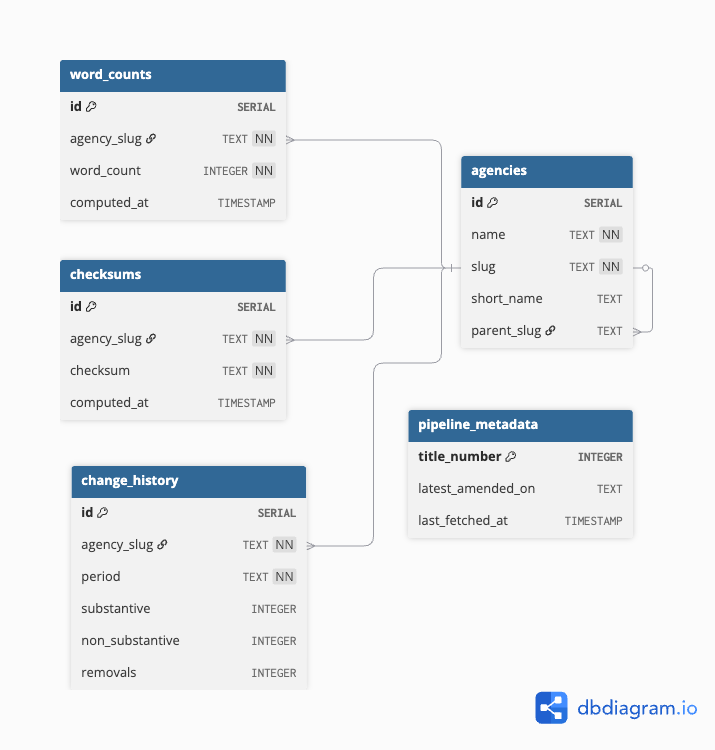
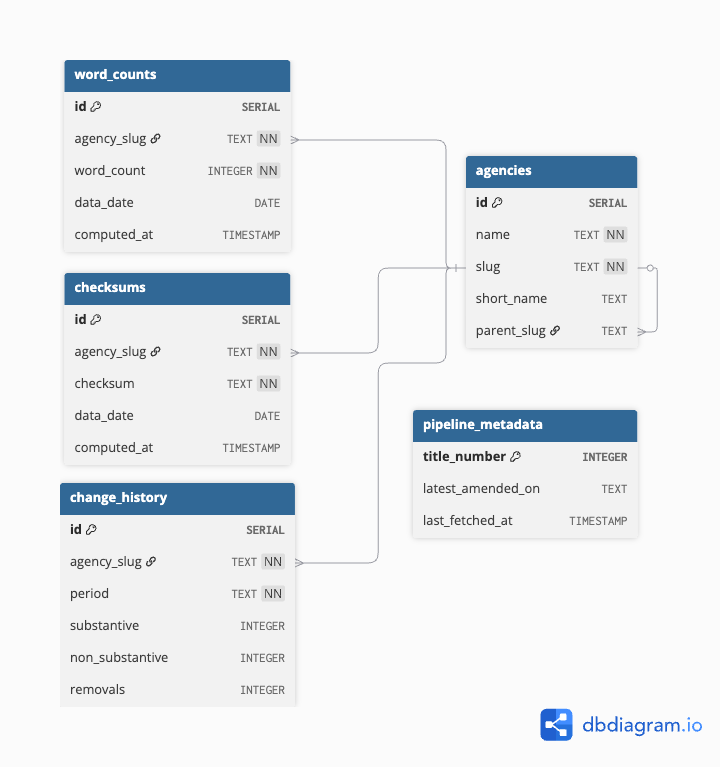
Add change detection: preserve word count/checksum history, seed baseline on first deploy
Pipeline now appends word counts and checksums instead of replacing,
runs a seed pass with historical data on first startup, and the detail
endpoint compares the two most recent values to show changed/unchanged
status based on checksums with word count delta and data dates in the UI.

diff --git a/client/src/components/ChangeIndicator.jsx b/client/src/components/ChangeIndicator.jsx
@@ -1,0 +1,39 @@
+const formatDate = (dateStr) => {
+  const [year, month, day] = dateStr.split("-")
+  const date = new Date(year, month - 1, day)
+  return date.toLocaleDateString("en-US", { month: "short", day: "numeric", year: "numeric" })
+}
+
+const ChangeIndicator = ({ agencyDetail }) => {
+  if (!agencyDetail || agencyDetail.checksum_changed === null) return null
+
+  return (
+    <div className="bg-white rounded-lg shadow p-4 flex items-center gap-4 text-base">
+      <span className="font-semibold">{agencyDetail.name}</span>
+      <span className={`px-2 py-0.5 rounded-full text-sm font-medium ${
+        agencyDetail.checksum_changed
+          ? "bg-amber-100 text-amber-800"
+          : "bg-green-100 text-green-800"
+      }`}>
+        {agencyDetail.checksum_changed ? "Changed" : "Unchanged"}
+      </span>
+      {agencyDetail.word_count_change !== null && (
+        <span className={`text-sm ${
+          agencyDetail.word_count_change > 0 ? "text-blue-600"
+          : agencyDetail.word_count_change < 0 ? "text-red-600"
+          : "text-gray-500"
+        }`}>
+          {agencyDetail.word_count_change > 0 ? "+" : ""}
+          {agencyDetail.word_count_change.toLocaleString()} words
+        </span>
+      )}
+      {agencyDetail.previous_data_date && agencyDetail.current_data_date && (
+        <span className="text-sm text-gray-400">
+          {formatDate(agencyDetail.previous_data_date)} vs {formatDate(agencyDetail.current_data_date)}
+        </span>
+      )}
+    </div>
+  )
+}
+
+export default ChangeIndicator

diff --git a/client/src/App.jsx b/client/src/App.jsx
@@ -3,6 +3,7 @@ import AgencyTable from "./components/AgencyTable"
 import WordCountChart from "./components/WordCountChart"
 import ChangesChart from "./components/ChangesChart"
 import RegGrowthChart from "./components/RegGrowthChart"
+import ChangeIndicator from "./components/ChangeIndicator"
 
 const App = () => {
   const [agencies, setAgencies] = useState([])
@@ -68,6 +69,8 @@ const App = () => {
             <h2 className="text-lg font-semibold mb-3">Word Count by Agency</h2>
             <WordCountChart agencies={agencies} />
           </div>
+
+          <ChangeIndicator agencyDetail={agencyDetail} />
 
           <div className="bg-white rounded-lg shadow p-4">
             <h2 className="text-lg font-semibold mb-3">

diff --git a/api/pipeline.py b/api/pipeline.py
@@ -191,7 +191,17 @@ def process_title_versions(title_number, date, agency_map):
 
     return dict(results)
 
-def run_pipeline(full_refresh=False):
+def run_pipeline(full_refresh=False, seed_date=None):
+    """Fetch all CFR titles, compute per-agency word counts, checksums, and change history.
+
+    Skips processing when no titles have been amended since the last run,
+    unless full_refresh=True. Results are appended (not replaced) for
+    word_counts and checksums to preserve history for change detection.
+
+    seed_date: optional date string (e.g. "2026-01-01") to fetch historical
+    data instead of the latest. Used on first startup to seed baseline data
+    for change detection comparison.
+    """
     logger.info("Pipeline started (full_refresh=%s)", full_refresh)
     agency_map = fetch_agencies()
     logger.info("Fetched %d agency-chapter mappings", len(agency_map))
@@ -206,7 +216,7 @@ def run_pipeline(full_refresh=False):
             for row in cur.fetchall():
                 stored_metadata[row[0]] = row[1]
 
-    # skip processing if nothing has changed since last run
+    # compare the fetched title_metadata to the stored meta_data in the database. If ANY titles have a different latest_amended on, continue, otherwise nothing's changed so skip pipeline
     if not full_refresh:
         has_changes = any(
             stored_metadata.get(t) != dates["latest_amended_on"]
@@ -219,11 +229,13 @@ def run_pipeline(full_refresh=False):
     agency_hashers = defaultdict(hashlib.sha256)
     agency_history = defaultdict(lambda: defaultdict(lambda: {"substantive": 0, "non_substantive": 0, "removals": 0}))
 
+    # process data for each title and build per-agency dicts, track process for logging with i = current title being processed
     for i, (title_number, title_dates) in enumerate(title_metadata.items(), 1):
         logger.info("Processing title %d (%d/%d)", title_number, i, len(title_metadata))
 
         # title content for word count; hashers are updated inside the function
-        title_content = process_title_content(title_number, title_dates["up_to_date_as_of"], agency_map, agency_hashers)
+        content_date = seed_date or title_dates["up_to_date_as_of"]
+        title_content = process_title_content(title_number, content_date, agency_map, agency_hashers)
 
         for slug, word_count in title_content.items():
             agency_word_counts[slug] += word_count
@@ -237,22 +249,26 @@ def run_pipeline(full_refresh=False):
                 agency_history[slug][period]["non_substantive"] += change_counts["non_substantive"]
                 agency_history[slug][period]["removals"] += change_counts["removals"]
 
+    # data_date records what eCFR date this data represents, not when the
+    # pipeline ran (that's computed_at). When seed_date is provided, all titles
+    # use that date. Otherwise, titles may have different up_to_date_as_of
+    # dates; we use the max since word counts are aggregated across titles.
+    data_date = seed_date or max(d["up_to_date_as_of"] for d in title_metadata.values())
+
     # write all computed metrics to the database in a single transaction
     with get_conn() as conn:
         with conn.cursor() as cur:
-            # clear old data so we don't accumulate duplicate rows
-            cur.execute("DELETE FROM word_counts")
-            cur.execute("DELETE FROM checksums")
+            # change_history is a full replace (aggregated totals, not point-in-time snapshots)
             cur.execute("DELETE FROM change_history")
 
             for slug, word_count in agency_word_counts.items():
                 cur.execute(
-                    "INSERT INTO word_counts (agency_slug, word_count) VALUES (%s, %s)",
-                    (slug, word_count),
+                    "INSERT INTO word_counts (agency_slug, word_count, data_date) VALUES (%s, %s, %s)",
+                    (slug, word_count, data_date),
                 )
                 cur.execute(
-                    "INSERT INTO checksums (agency_slug, checksum) VALUES (%s, %s)",
-                    (slug, agency_hashers[slug].hexdigest()),
+                    "INSERT INTO checksums (agency_slug, checksum, data_date) VALUES (%s, %s, %s)",
+                    (slug, agency_hashers[slug].hexdigest(), data_date),
                 )
 
             for slug, periods in agency_history.items():

diff --git a/api/routes/agencies.py b/api/routes/agencies.py
@@ -14,7 +14,9 @@ def list_agencies():
                        w.word_count, c.checksum, c.computed_at
                 FROM agencies a
                 LEFT JOIN word_counts w ON a.slug = w.agency_slug
+                    AND w.computed_at = (SELECT MAX(computed_at) FROM word_counts)
                 LEFT JOIN checksums c ON a.slug = c.agency_slug
+                    AND c.computed_at = (SELECT MAX(computed_at) FROM checksums)
                 ORDER BY a.name
             """)
             rows = cur.fetchall()
@@ -40,12 +42,30 @@ def get_agency(slug: str):
                        w.word_count, c.checksum, c.computed_at
                 FROM agencies a
                 LEFT JOIN word_counts w ON a.slug = w.agency_slug
+                    AND w.computed_at = (SELECT MAX(computed_at) FROM word_counts)
                 LEFT JOIN checksums c ON a.slug = c.agency_slug
+                    AND c.computed_at = (SELECT MAX(computed_at) FROM checksums)
                 WHERE a.slug = %s
             """, (slug,))
             row = cur.fetchone()
             if not row:
                  raise HTTPException(status_code=404, detail="Agency not found")
+
+            # two most recent checksums for change detection
+            cur.execute("""
+                SELECT checksum, data_date FROM checksums
+                WHERE agency_slug = %s
+                ORDER BY computed_at DESC LIMIT 2
+            """, (slug,))
+            recent_checksums = cur.fetchall()
+
+            # two most recent word counts for delta
+            cur.execute("""
+                SELECT word_count, data_date FROM word_counts
+                WHERE agency_slug = %s
+                ORDER BY computed_at DESC LIMIT 2
+            """, (slug,))
+            recent_word_counts = cur.fetchall()
 
             cur.execute("""
                 SELECT period, substantive, non_substantive, removals
@@ -53,8 +73,21 @@ def get_agency(slug: str):
                 WHERE agency_slug = %s
                 ORDER BY period
             """, (slug,))
-            rows = cur.fetchall()
-    
+            history_rows = cur.fetchall()
+
+    # compare current vs previous in Python
+    checksum_changed = None
+    current_data_date = None
+    previous_data_date = None
+    if len(recent_checksums) >= 2:
+        checksum_changed = recent_checksums[0][0] != recent_checksums[1][0]
+        current_data_date = recent_checksums[0][1]
+        previous_data_date = recent_checksums[1][1]
+
+    word_count_change = None
+    if len(recent_word_counts) >= 2:
+        word_count_change = recent_word_counts[0][0] - recent_word_counts[1][0]
+
     return AgencyDetail(
         slug=row[0],
         name=row[1],
@@ -62,14 +95,18 @@ def get_agency(slug: str):
         word_count=row[3],
         checksum=row[4],
         computed_at=row[5],
+        checksum_changed=checksum_changed,
+        word_count_change=word_count_change,
+        current_data_date=current_data_date,
+        previous_data_date=previous_data_date,
         change_history=[
             ChangeEntry(
-                period=change_row[0],
-                substantive=change_row[1],
-                non_substantive=change_row[2],
-                removals=change_row[3],
+                period=r[0],
+                substantive=r[1],
+                non_substantive=r[2],
+                removals=r[3],
             )
-            for change_row in rows
+            for r in history_rows
         ],
     )
 

diff --git a/tests/test_pipeline.py b/tests/test_pipeline.py
@@ -406,7 +406,7 @@ class TestRunPipelineAggregation:
             if c[0][0].strip().startswith("INSERT INTO word_counts")
         ]
         assert len(word_count_inserts) == 1
-        assert word_count_inserts[0][0][1] == ("epa", 300)
+        assert word_count_inserts[0][0][1] == ("epa", 300, "2026-01-01")
 
     def test_checksums_computed_from_combined_text(self):
         """Checksum reflects text from all titles, not just one."""
@@ -427,7 +427,7 @@ class TestRunPipelineAggregation:
             if c[0][0].strip().startswith("INSERT INTO checksums")
         ]
         assert len(checksum_inserts) == 1
-        assert checksum_inserts[0][0][1] == ("epa", expected_checksum)
+        assert checksum_inserts[0][0][1] == ("epa", expected_checksum, "2026-01-01")
 
     def test_change_history_merged_across_titles(self):
         """Same agency + period from different titles sums counts."""
@@ -450,8 +450,9 @@ class TestRunPipelineAggregation:
         # (slug, period, substantive, non_substantive, removals)
         assert history_inserts[0][0][1] == ("epa", "2024-03", 5, 1, 1)
 
-    def test_old_data_deleted_before_insert(self):
-        """DELETE runs for all three metric tables before any INSERTs."""
+    def test_change_history_deleted_before_insert(self):
+        """DELETE runs for change_history (full replace) before any INSERTs.
+        word_counts and checksums are appended to preserve history."""
         title_metadata = {
             1: {"up_to_date_as_of": "2026-01-01", "latest_amended_on": "2026-01-01"},
         }

diff --git a/api/database.py b/api/database.py
@@ -41,6 +41,7 @@ def create_tables():
                     id SERIAL PRIMARY KEY,
                     agency_slug TEXT NOT NULL REFERENCES agencies(slug),
                     word_count INTEGER NOT NULL,
+                    data_date DATE,
                     computed_at TIMESTAMP DEFAULT NOW()
                 );
 
@@ -48,6 +49,7 @@ def create_tables():
                     id SERIAL PRIMARY KEY,
                     agency_slug TEXT NOT NULL REFERENCES agencies(slug),
                     checksum TEXT NOT NULL,
+                    data_date DATE,
                     computed_at TIMESTAMP DEFAULT NOW()
                 );
 

diff --git a/api/main.py b/api/main.py
@@ -15,8 +15,13 @@ from fastapi.responses import HTMLResponse
 logging.basicConfig(level=logging.INFO)
 logger = logging.getLogger(__name__)
 
+SEED_DATE = "2026-03-04"
+
 def _run_pipeline_safe():
     try:
+        # seed baseline data from an earlier date so change detection has
+        # two data points to compare on the very first startup
+        run_pipeline(full_refresh=True, seed_date=SEED_DATE)
         run_pipeline(full_refresh=True)
     except Exception:
         logger.exception("Pipeline failed")

diff --git a/api/models.py b/api/models.py
@@ -1,5 +1,5 @@
 from pydantic import BaseModel
-from datetime import datetime
+from datetime import date, datetime
 
 
 class ChangeEntry(BaseModel):
@@ -19,6 +19,10 @@ class AgencySummary(BaseModel):
 
 
 class AgencyDetail(AgencySummary):
+    checksum_changed: bool | None = None
+    word_count_change: int | None = None
+    current_data_date: date | None = None
+    previous_data_date: date | None = None
     change_history: list[ChangeEntry] = []
 
 

diff --git a/README.md b/README.md
@@ -6,11 +6,19 @@ A web dashboard that turns 200,000+ pages of federal regulations into digestible
 **API docs:** https://ecfr-analyzer-kc2m.onrender.com/docs
 
 
+---
+
+> **Note for reviewers:** Development continued on `main` after the March 6 submission deadline. This README and the deployed version at the link above reflect the latest work. To view the repo and README as it was at the time of submission, see the [`v1-submission`](https://github.com/eking1005/ValerieF-Take-Home-Assessment/tree/v1-submission) branch.
+
+---
+
 ## Screenshots
 
 ![Agency table with sortable columns](docs/agencies_table.png)
 
 ![Word count by agency](docs/word_count.png)
+
+![Change detection indicator](docs/change_indicator.png)
 
 ![Change history over time](docs/change_history.png)
 
@@ -33,17 +41,18 @@ api/
 client/src/
 ├── App.jsx          # Layout, data fetching, state
 └── components/
-    ├── AgencyTable.jsx     # Sortable agency list
-    ├── WordCountChart.jsx  # Top agencies bar chart
-    ├── ChangesChart.jsx    # Change history over time
-    └── RegGrowthChart.jsx  # Removal Deficit metric
+    ├── AgencyTable.jsx      # Sortable agency list
+    ├── WordCountChart.jsx   # Top agencies bar chart
+    ├── ChangeIndicator.jsx  # Changed/unchanged badge + word delta
+    ├── ChangesChart.jsx     # Change history over time
+    └── RegGrowthChart.jsx   # Removal Deficit metric
 ```
 
 ![Database ERD](docs/ERD.png)
 
 ### Data Pipeline
 
-On first deploy, the pipeline populates the database from scratch. After that, a daily scheduler checks for changes and only reprocesses when titles have been amended.
+On first deploy, the pipeline runs twice: once with a historical seed date to establish a baseline, then again with the current date. This gives change detection two data points to compare immediately. Word counts and checksums are appended on each run (not replaced) to preserve history. After initial setup, a daily scheduler checks for changes and only reprocesses when titles have been amended.
 
 ```mermaid
 sequenceDiagram
@@ -72,7 +81,7 @@ sequenceDiagram
         Note over P: Categorize changes by<br/>removed/substantive booleans
     end
 
-    P->>DB: Write word counts, checksums, change history
+    P->>DB: Append word counts + checksums, replace change history
 ```
 
 ### Request Flow
@@ -95,18 +104,18 @@ sequenceDiagram
 
     U->>R: Click agency row
     R->>F: GET /api/agencies/{slug}
-    F->>DB: Query agency + change history
+    F->>DB: Query agency + change history +<br/>two most recent checksums/word counts
     DB-->>F: Rows
-    F-->>R: JSON (monthly change history)
+    F-->>R: JSON (change history, checksum_changed,<br/>word_count_change, data dates)
     Note over R: Compute Removal Deficit<br/>client-side from change data
-    R-->>U: Render changes chart + custom metric
+    R-->>U: Render change indicator,<br/>changes chart + custom metric
 ```
 
 ## How Metrics Are Computed
 
 **Word count:** Full XML for each CFR title is parsed by chapter. Chapters map to agencies via `cfr_references` from the eCFR agencies endpoint. Word count is `len(text.split())` on the extracted text. Agencies spanning multiple titles have their counts summed across all titles.
 
-**Checksum:** SHA-256 hash of all chapter text belonging to the agency. Computed on each pipeline run. If an agency's regulations change between runs, the hash changes, providing a quick "did anything change?" signal without re-reading content.
+**Checksum:** SHA-256 hash of all chapter text belonging to the agency. Computed and stored on each pipeline run. The detail endpoint compares the two most recent checksums to determine if an agency's regulations changed between runs, displayed as a "Changed"/"Unchanged" badge in the UI.
 
 **Historical changes:** The eCFR versions endpoint provides section-level change records with `removed` and `substantive` boolean fields. Each entry is categorized directly:
 
